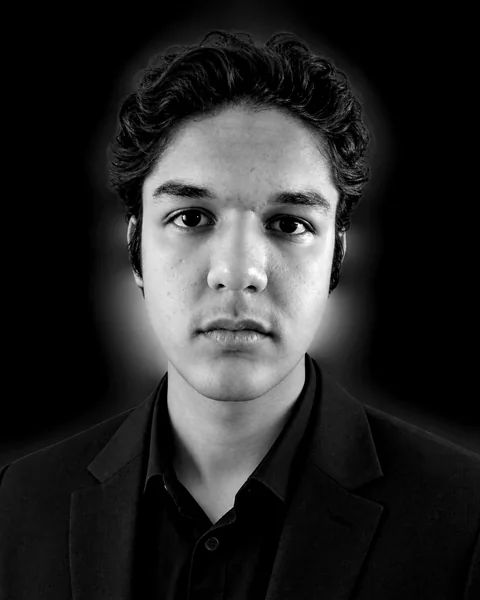
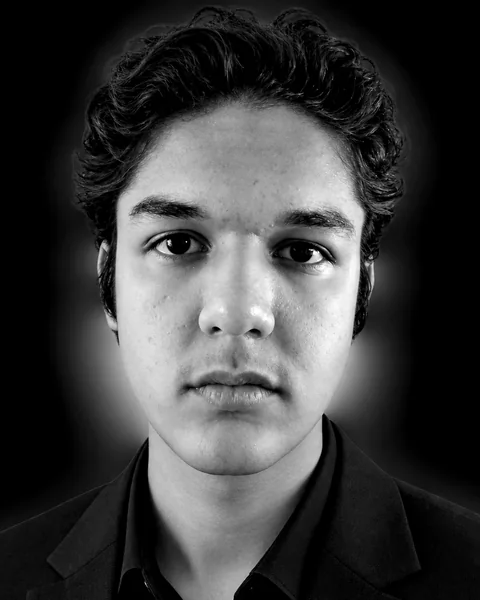
پرتره: کادر نیمتنهٔ بستهتر و ورود نرم با انیمیشن
- برش تازه: صورت بزرگتر، شانهها در لبهٔ پایین، فضای خالی زیر کادر حذف شد
- ورود پرتره با محو + بلور + جابهجایی ملایم (۱.۶ ثانیه) و حرکت بسیار آرام پیوسته
- در prefers-reduced-motion هر دو انیمیشن خاموش میشوند و تصویر کامل دیده میشود
- پرترهٔ OG و نسخهٔ رزومه از همان برش ساخته شدند

diff --git a/src/styles/site.css b/src/styles/site.css
@@ -906,7 +906,36 @@ html.is-intro-open {
   align-self: end;
   justify-self: center;
   width: 100%;
-  max-width: 380px;
+  max-width: 400px;
+}
+
+@keyframes portrait-enter {
+  from {
+    opacity: 0;
+    transform: translate3d(0, 30px, 0) scale(1.045);
+    filter: blur(14px);
+  }
+
+  60% {
+    filter: blur(0);
+  }
+
+  to {
+    opacity: 1;
+    transform: none;
+    filter: blur(0);
+  }
+}
+
+/* حرکت بسیار آرام و پیوسته؛ فقط یک «نفس کشیدن»، نه تکان */
+@keyframes portrait-drift {
+  from {
+    transform: scale(1);
+  }
+
+  to {
+    transform: scale(1.035);
+  }
 }
 
 .portrait__frame {
@@ -917,6 +946,7 @@ html.is-intro-open {
   border: 1px solid rgba(244, 238, 225, 0.16);
   outline: 1px solid rgba(244, 238, 225, 0.04);
   outline-offset: 6px;
+  animation: portrait-enter 1.6s cubic-bezier(0.16, 0.84, 0.28, 1) 0.12s both;
 }
 
 /* سیاهوسفید و اصلاح سطح سیاه در خود فایل تصویر اعمال شده است
@@ -925,7 +955,8 @@ html.is-intro-open {
   width: 100%;
   height: 100%;
   object-fit: cover;
-  object-position: center 28%;
+  transform-origin: 50% 32%;
+  animation: portrait-drift 22s ease-in-out 1.9s infinite alternate;
 }
 
 .portrait figcaption {
